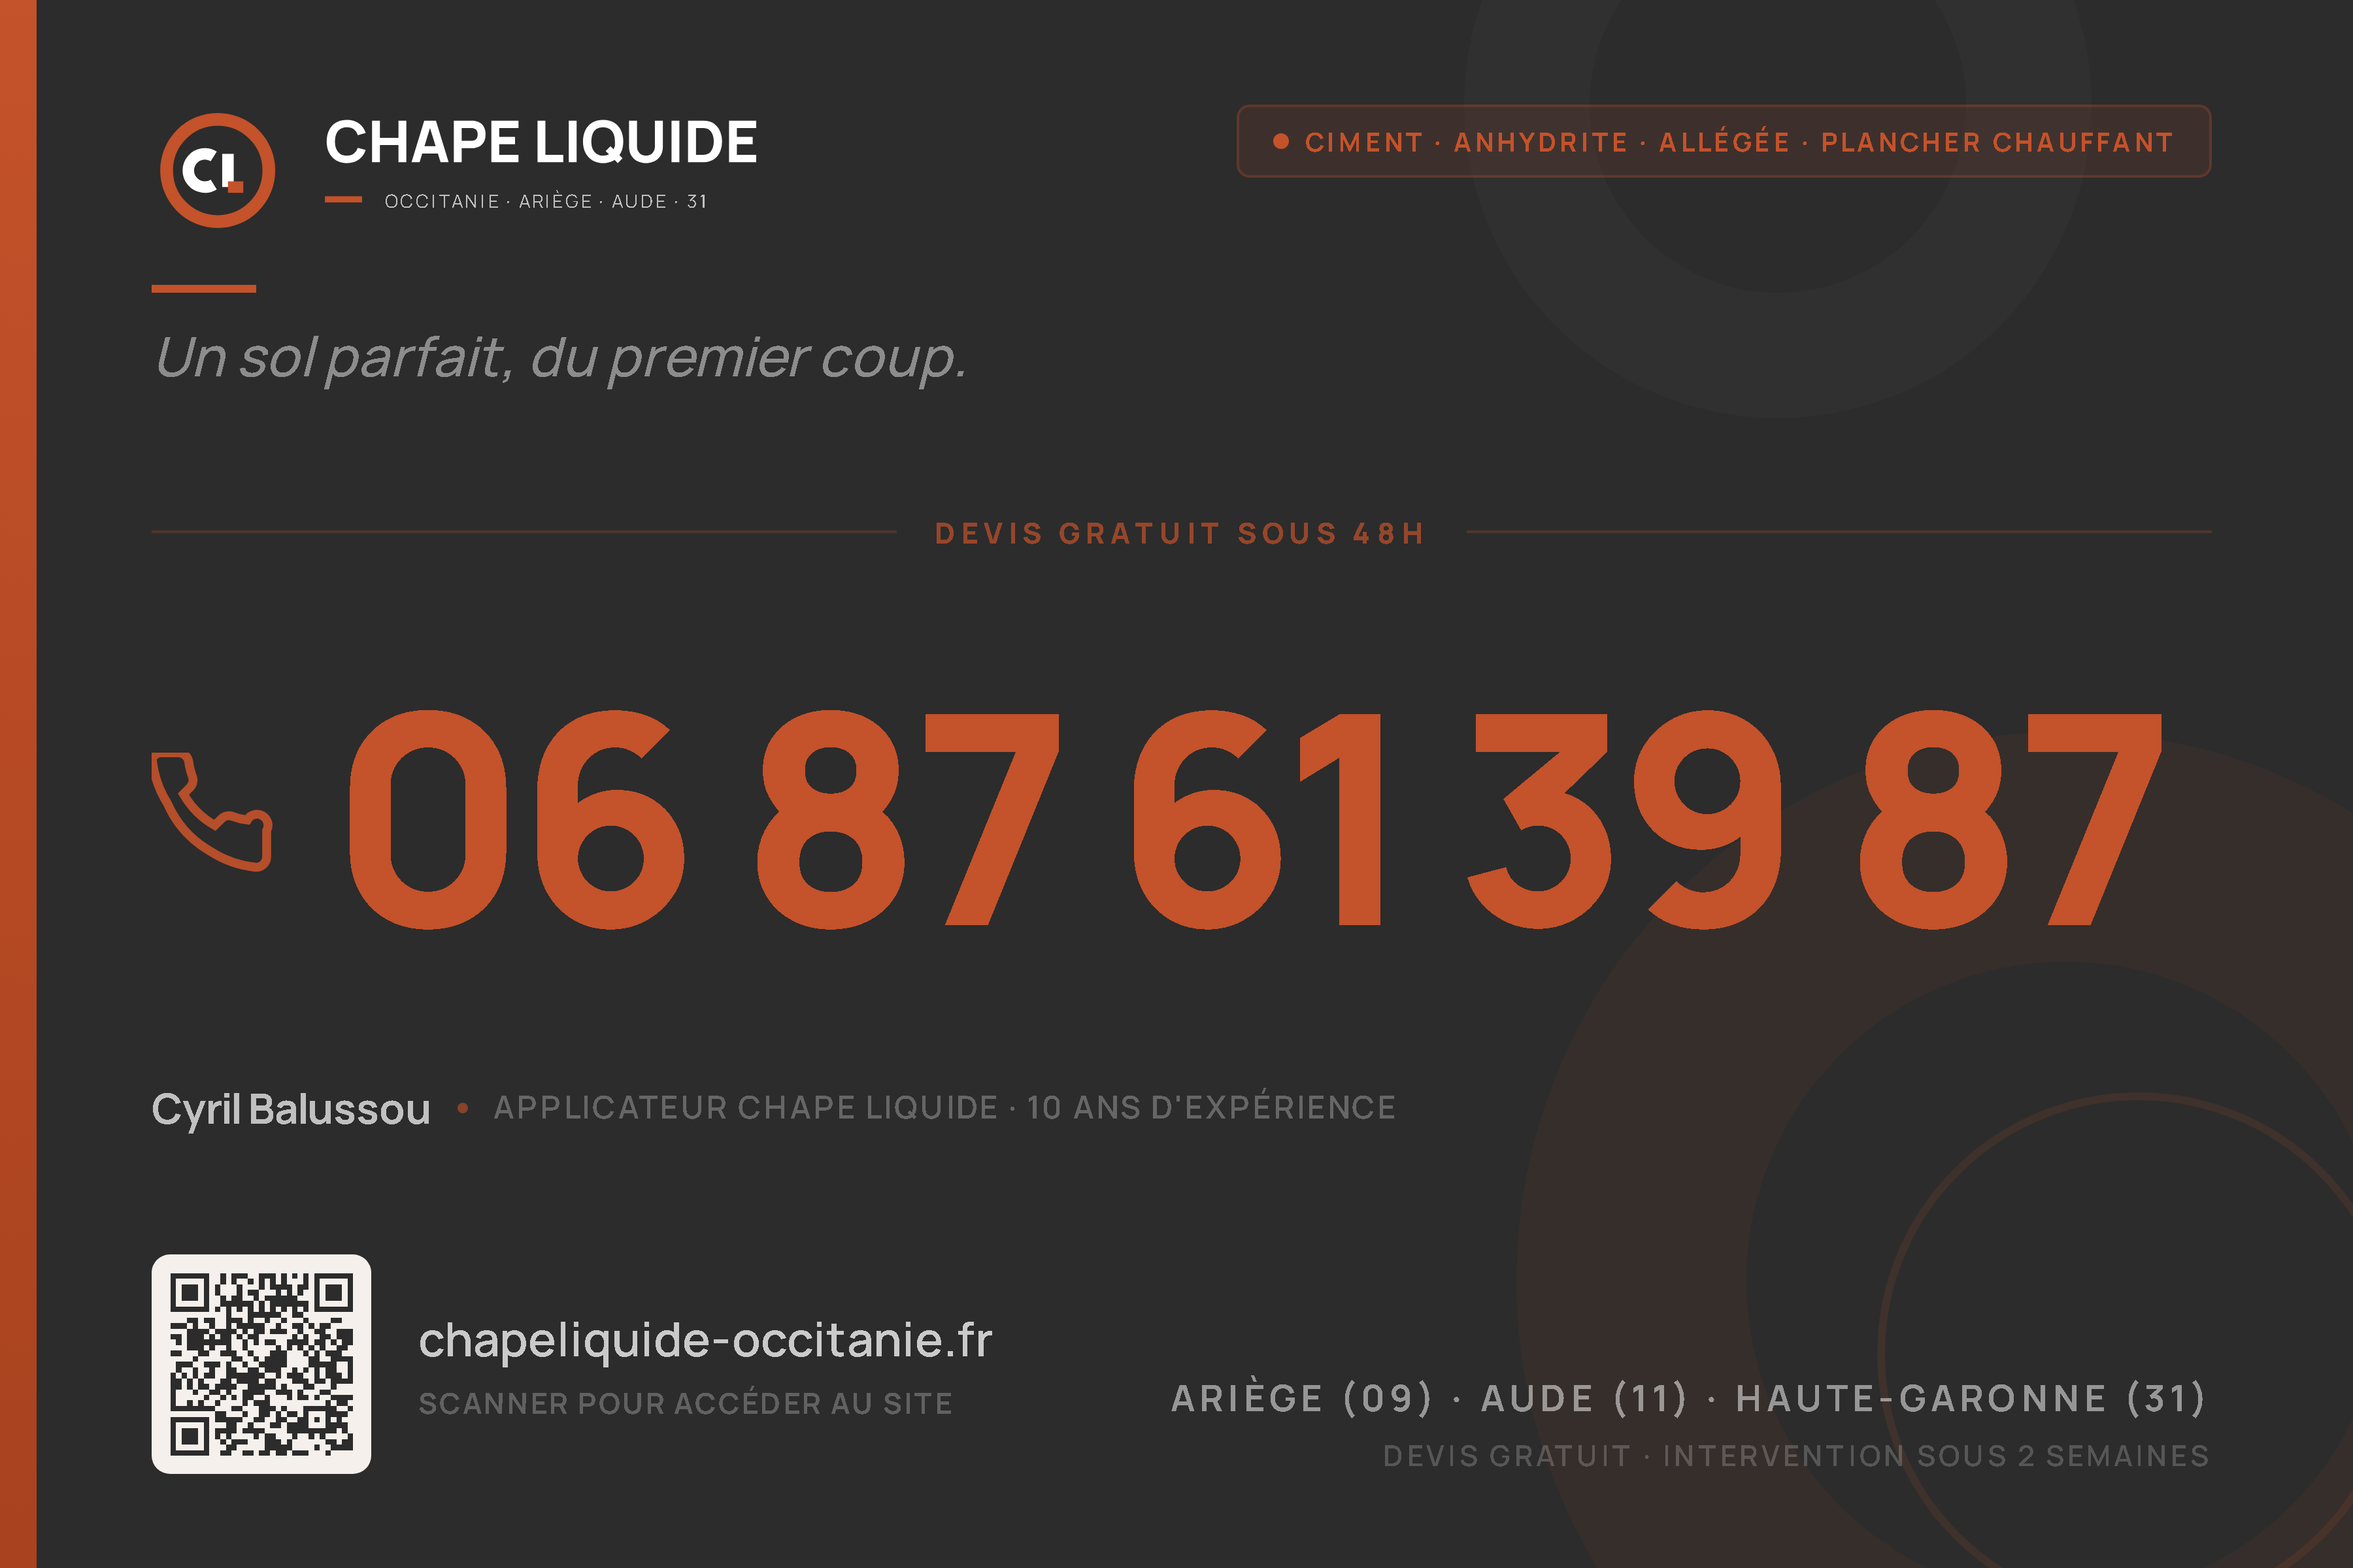
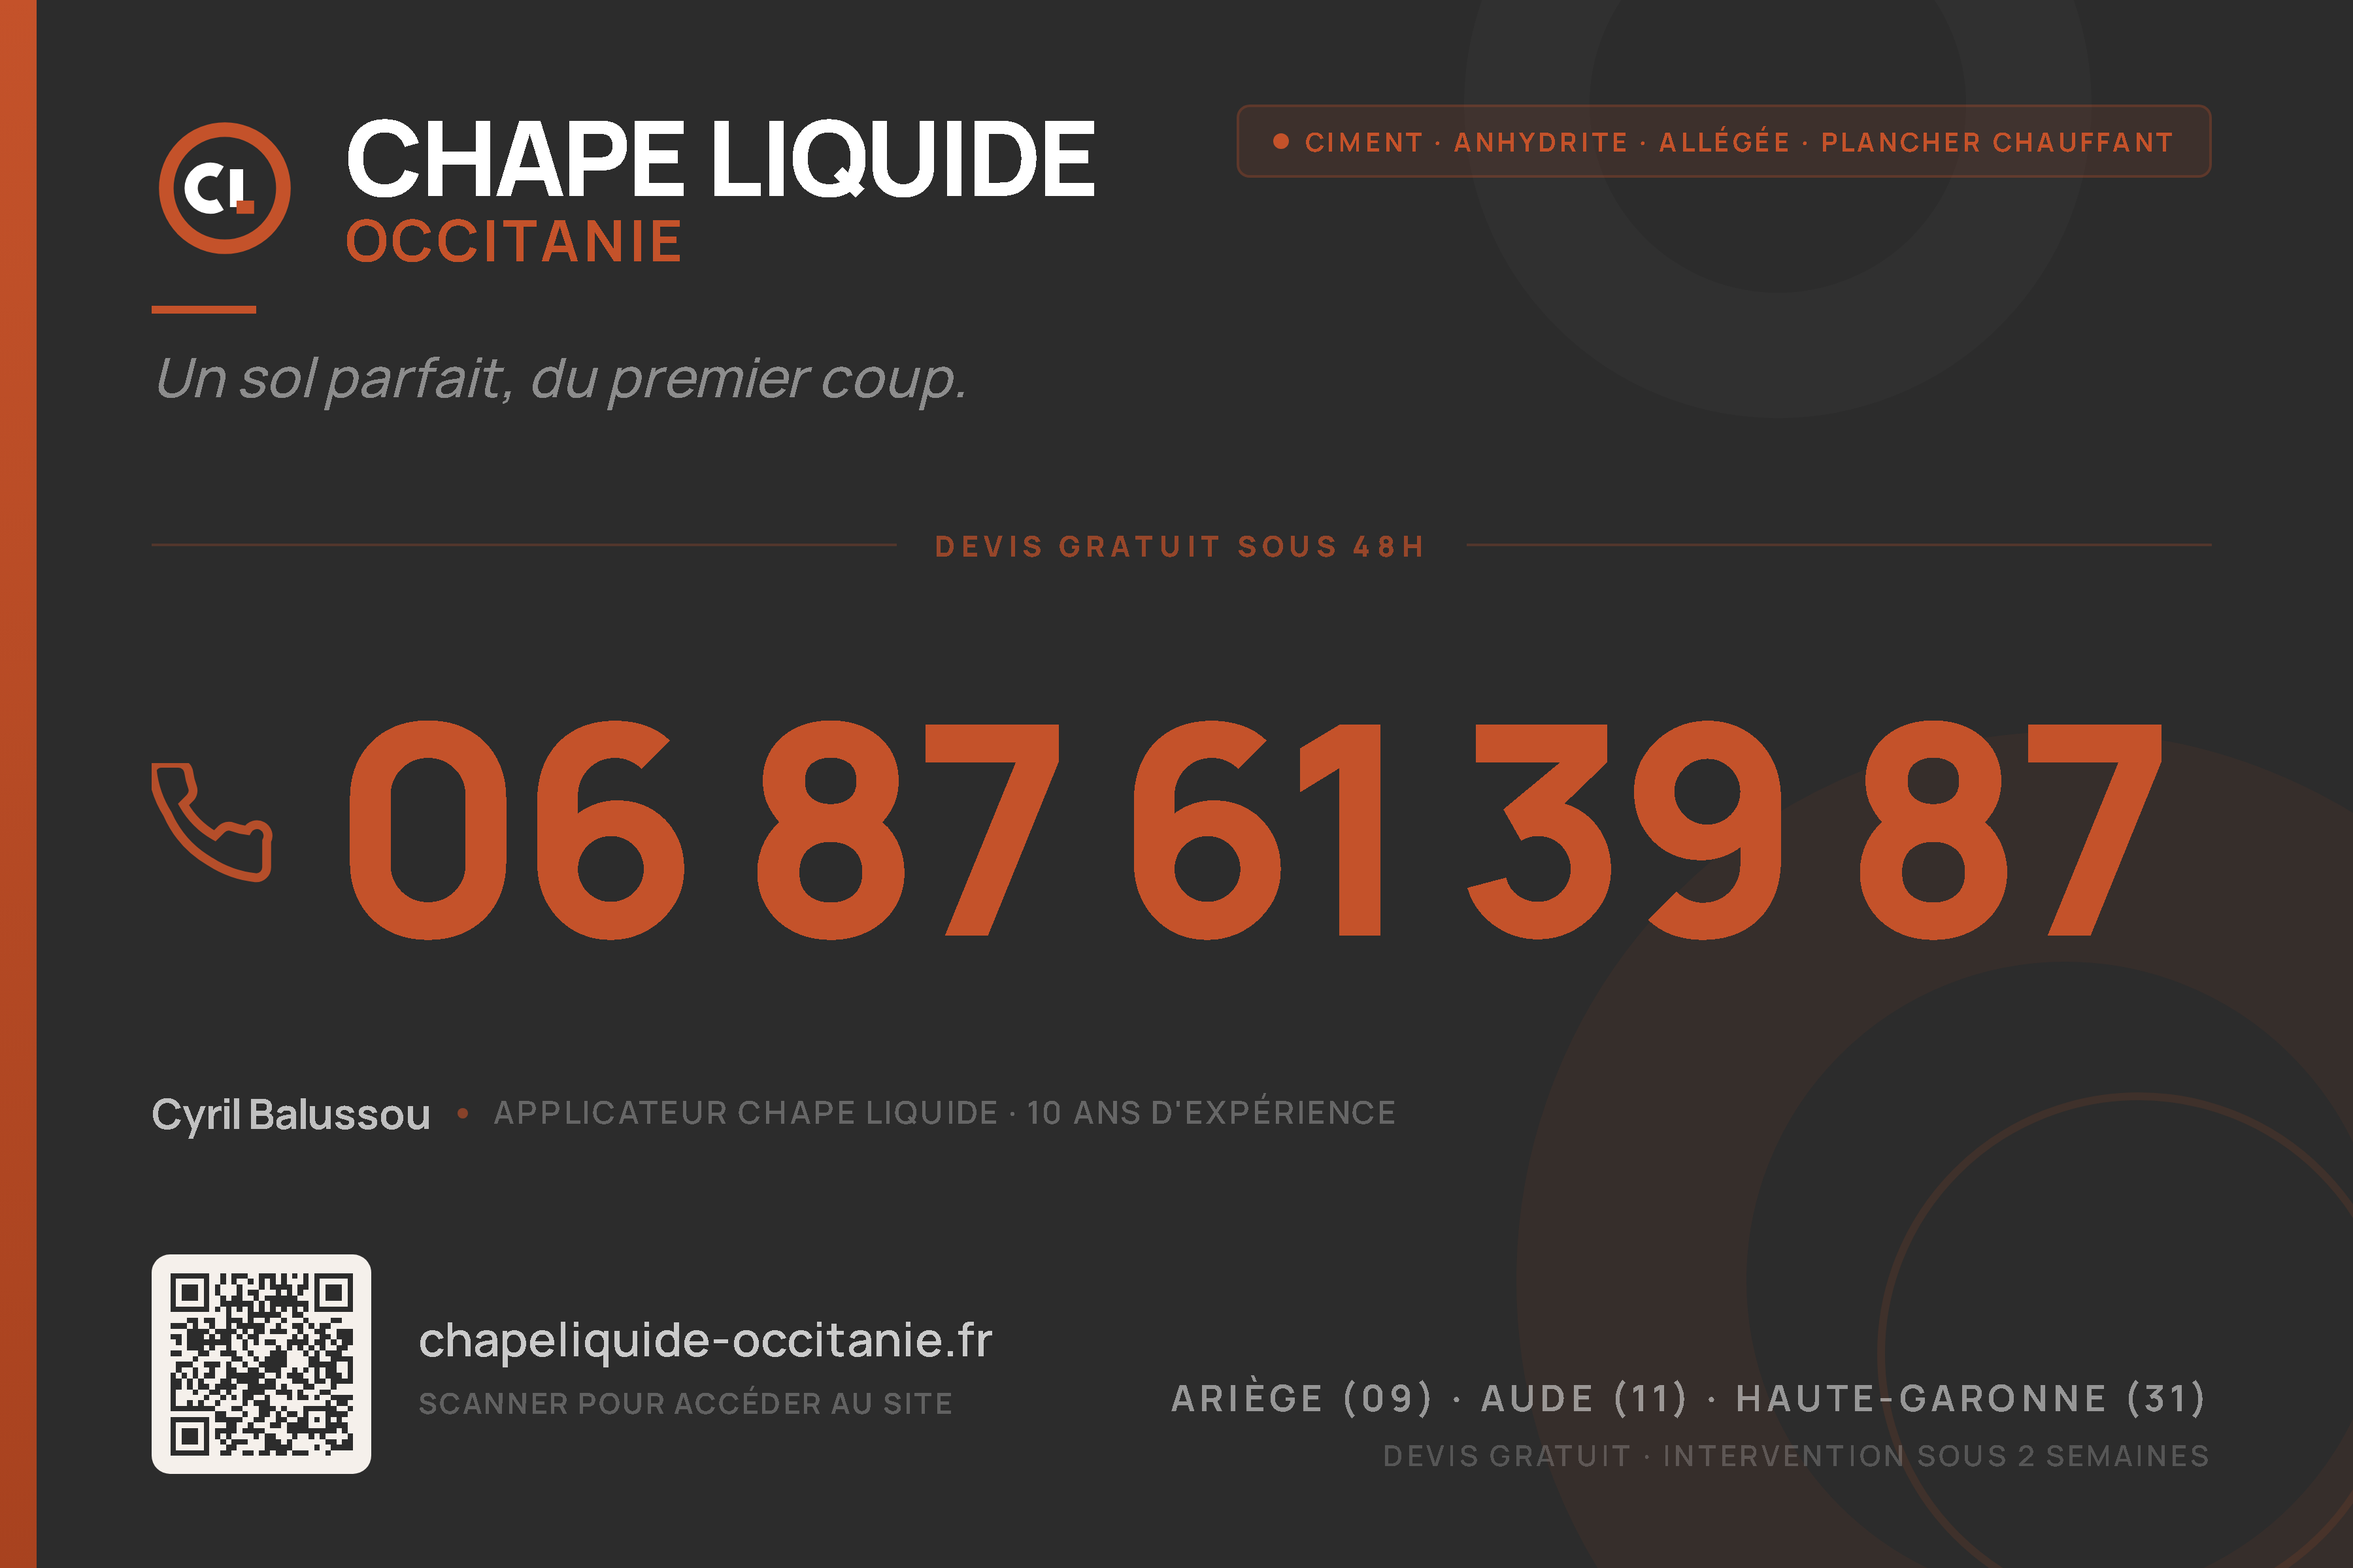
fix: panneau chantier — nom de marque plus visible
Sépare l'icône CLO du texte : «CHAPE LIQUIDE» (40px blanc) + «OCCITANIE» (22px orange)
remplace le logo SVG horizontal trop petit dans la zone branding.

diff --git a/internal/panneau-chantier/panneau-chantier-clo.html b/internal/panneau-chantier/panneau-chantier-clo.html
@@ -39,6 +39,25 @@
     background: linear-gradient(180deg, var(--terra) 0%, var(--terra-dark) 100%);
   }
 
+  /* ─── Icône + nom de marque ─── */
+  .p-brand      { display: flex; align-items: center; gap: 18px; }
+  .p-icon       { width: 56px; height: 56px; flex-shrink: 0; }
+  .p-brand-text { display: flex; flex-direction: column; gap: 1px; }
+  .p-brand-name {
+    font-size: 40px; font-weight: 800;
+    color: #fff;
+    letter-spacing: -0.025em;
+    line-height: 1;
+    text-transform: uppercase;
+  }
+  .p-brand-sub {
+    font-size: 22px; font-weight: 700;
+    color: var(--terra);
+    letter-spacing: 0.07em;
+    text-transform: uppercase;
+    line-height: 1;
+  }
+
   .p-c1 { position: absolute; bottom: -100px; right: -100px; width: 420px; height: 420px; border: 88px solid rgba(196,82,42,0.07); border-radius: 50%; }
   .p-c2 { position: absolute; bottom: -18px;  right: -18px;  width: 200px; height: 200px; border: 3px  solid rgba(196,82,42,0.13); border-radius: 50%; }
   .p-c3 { position: absolute; top: -80px; right: 100px; width: 240px; height: 240px; border: 48px solid rgba(255,255,255,0.025); border-radius: 50%; }
@@ -152,12 +171,18 @@
     <!-- TOP -->
     <div class="p-top">
       <div>
-        <svg class="p-logo" xmlns="http://www.w3.org/2000/svg" viewBox="0 0 393 64" role="img" aria-label="Chape Liquide Occitanie">
-          <g transform="translate(1,1) scale(0.62)"><circle cx="50" cy="50" r="40" fill="none" stroke="#C4522A" stroke-width="10"/><path d="M46.89 38.98 A13 13 0 1 0 46.89 61.02" fill="none" stroke="#fff" stroke-width="9"/><path d="M58 37 V63" fill="none" stroke="#fff" stroke-width="9"/><path d="M58 63 H70" fill="none" stroke="#C4522A" stroke-width="9"/></g>
-          <path d="M94.61 28.42Q91.59 28.42 89.40 27.10Q87.21 25.79 86.02 23.42Q84.84 21.06 84.84 17.92Q84.84 14.78 86.02 12.42Q87.21 10.05 89.40 8.74Q91.59 7.42 94.61 7.42Q98.08 7.42 100.44 9.14Q102.80 10.86 103.77 13.80L99.93 14.87Q99.37 13.03 98.04 12.02Q96.71 11.00 94.61 11.00Q92.69 11.00 91.41 11.86Q90.13 12.71 89.49 14.27Q88.84 15.82 88.84 17.92Q88.84 20.02 89.49 21.57Q90.13 23.13 91.41 23.98Q92.69 24.84 94.61 24.84Q96.71 24.84 98.04 23.81Q99.37 22.79 99.93 20.97L103.77 22.04Q102.80 24.98 100.44 26.70Q98.08 28.42 94.61 28.42Z M110.66 28L106.85 28L106.85 7.84L110.66 7.84L110.66 16.13L119.67 16.13L119.67 7.84L123.48 7.84L123.48 28L119.67 28L119.67 19.68L110.66 19.68L110.66 28Z M129.92 28L126 28L132.16 7.84L137.84 7.84L144.00 28L140.08 28L138.78 23.80L131.19 23.80L129.92 28ZM132.27 20.24L137.69 20.24L134.96 11.41L132.27 20.24Z M150.33 28L146.52 28L146.52 7.84L155.04 7.84Q155.33 7.84 155.83 7.86Q156.32 7.88 156.72 7.95Q158.52 8.23 159.68 9.14Q160.83 10.05 161.38 11.43Q161.92 12.81 161.92 14.50Q161.92 16.20 161.37 17.58Q160.82 18.96 159.66 19.87Q158.51 20.78 156.72 21.06Q156.32 21.11 155.82 21.14Q155.32 21.17 155.04 21.17L150.33 21.17L150.33 28ZM150.33 11.40L150.33 17.61L154.87 17.61Q155.16 17.61 155.51 17.58Q155.86 17.56 156.16 17.47Q156.93 17.26 157.35 16.77Q157.77 16.27 157.93 15.66Q158.09 15.05 158.09 14.50Q158.09 13.96 157.93 13.35Q157.77 12.74 157.35 12.24Q156.93 11.75 156.16 11.54Q155.86 11.45 155.51 11.42Q155.16 11.40 154.87 11.40L150.33 11.40Z M177.88 28L164.72 28L164.72 7.84L177.88 7.84L177.88 11.40L168.53 11.40L168.53 15.71L176.20 15.71L176.20 19.26L168.53 19.26L168.53 24.44L177.88 24.44L177.88 28Z M199.61 28L187.12 28L187.12 7.84L190.93 7.84L190.93 24.44L199.61 24.44L199.61 28Z M206.08 28L202.27 28L202.27 7.84L206.08 7.84L206.08 28Z M228.37 26.07L226.04 28.42L224.50 26.88Q224.32 26.99 224.15 27.10Q221.96 28.42 218.93 28.42Q215.91 28.42 213.72 27.10Q211.53 25.79 210.34 23.42Q209.16 21.06 209.16 17.92Q209.16 14.78 210.34 12.42Q211.53 10.05 213.72 8.74Q215.91 7.42 218.93 7.42Q221.96 7.42 224.15 8.74Q226.34 10.05 227.52 12.42Q228.70 14.78 228.70 17.92Q228.70 21.06 227.53 23.42Q227.22 24.02 226.86 24.56L228.37 26.07ZM218.93 24.84Q220.61 24.86 221.80 24.21L220.16 22.57L222.52 20.22L223.99 21.69Q224.04 21.59 224.67 20.02Q224.67 20.02 224.67 17.92Q224.67 15.82 224.03 14.28Q223.40 12.74 222.12 11.89Q220.85 11.03 218.93 11.00Q217.01 10.98 215.74 11.83Q214.47 12.68 213.83 14.25Q213.19 15.82 213.19 17.92Q213.19 20.02 213.83 21.56Q214.47 23.10 215.74 23.95Q217.01 24.81 218.93 24.84Z M239.71 28.42Q237.27 28.42 235.42 27.43Q233.58 26.45 232.54 24.65Q231.50 22.86 231.50 20.44L231.50 7.87L235.37 7.84L235.37 20.41Q235.37 21.41 235.70 22.22Q236.04 23.03 236.63 23.62Q237.23 24.21 238.02 24.52Q238.81 24.84 239.71 24.84Q240.63 24.84 241.42 24.51Q242.21 24.19 242.80 23.60Q243.39 23.02 243.72 22.20Q244.05 21.39 244.05 20.41L244.05 7.84L247.91 7.84L247.91 20.44Q247.91 22.86 246.88 24.65Q245.84 26.45 243.99 27.43Q242.14 28.42 239.71 28.42Z M255.92 28L252.11 28L252.11 7.84L255.92 7.84L255.92 28Z M266.64 28L260.12 28L260.12 7.84L266.64 7.84Q266.88 7.84 267.62 7.85Q268.37 7.87 269.05 7.95Q271.49 8.25 273.18 9.65Q274.88 11.05 275.76 13.20Q276.64 15.36 276.64 17.92Q276.64 20.48 275.76 22.64Q274.88 24.79 273.18 26.19Q271.49 27.59 269.05 27.89Q268.37 27.97 267.62 27.99Q266.88 28 266.64 28ZM263.98 11.42L263.98 24.42L266.64 24.42Q267.02 24.42 267.67 24.39Q268.31 24.37 268.83 24.28Q270.14 24.01 270.98 23.04Q271.81 22.08 272.21 20.72Q272.61 19.36 272.61 17.92Q272.61 16.41 272.19 15.05Q271.78 13.69 270.94 12.75Q270.10 11.82 268.83 11.56Q268.31 11.45 267.67 11.44Q267.02 11.42 266.64 11.42L263.98 11.42Z M293.16 28L280.00 28L280.00 7.84L293.16 7.84L293.16 11.40L283.81 11.40L283.81 15.71L291.48 15.71L291.48 19.26L283.81 19.26L283.81 24.44L293.16 24.44L293.16 28Z" fill="#fff"/>
-          <rect x="84" y="44.5" width="18" height="3" fill="#C4522A"/>
-          <text x="113" y="50" font-family="Manrope,sans-serif" font-size="9" fill="#fff" fill-opacity="0.7" letter-spacing="1.2">OCCITANIE · ARIÈGE · AUDE · 31</text>
-        </svg>
+        <div class="p-brand">
+          <svg class="p-icon" xmlns="http://www.w3.org/2000/svg" viewBox="0 0 100 100" role="img" aria-label="CLO icône">
+            <circle cx="50" cy="50" r="40" fill="none" stroke="#C4522A" stroke-width="10"/>
+            <path d="M46.89 38.98 A13 13 0 1 0 46.89 61.02" fill="none" stroke="#fff" stroke-width="9"/>
+            <path d="M58 37 V63" fill="none" stroke="#fff" stroke-width="9"/>
+            <path d="M58 63 H70" fill="none" stroke="#C4522A" stroke-width="9"/>
+          </svg>
+          <div class="p-brand-text">
+            <div class="p-brand-name">Chape Liquide</div>
+            <div class="p-brand-sub">Occitanie</div>
+          </div>
+        </div>
         <div class="p-sep"></div>
         <div class="p-slogan">Un sol parfait, du premier coup.</div>
       </div>
